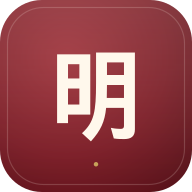
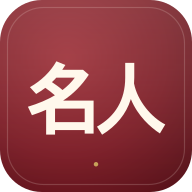
🎴 앱 아이콘·파비콘 明 → 名人 + 캐시 무력화
- icon.svg 글자 明 → 名人, icon-192/512.png 재생성
- tour-detail 카페 원문 마크 明 → 名人
- /assets/* immutable 캐시 대응: 아이콘 참조에 ?v2 (HTML 6 + manifest)
- service worker 캐시 v21 → v22

Changed region(s): [[0.125, 0.25, 0.875, 0.75]]

diff --git a/index.html b/index.html
@@ -7,8 +7,8 @@
 <meta name="description" content="능파의 명인방투어. 인문학·여행·음악·맛이 흐르는 어른의 큐레이션 커뮤니티. 16년차 1,927명 회원." />
 <meta name="theme-color" content="#7a1b25" />
 <link rel="manifest" href="./manifest.webmanifest" />
-<link rel="apple-touch-icon" href="./assets/icon-192.png" />
-<link rel="icon" type="image/svg+xml" href="./assets/icon.svg" />
+<link rel="apple-touch-icon" href="./assets/icon-192.png?v2" />
+<link rel="icon" type="image/svg+xml" href="./assets/icon.svg?v2" />
 <meta property="og:type" content="website" />
 <meta property="og:site_name" content="명인방투어" />
 <meta property="og:title" content="명인방투어 — 길 위의 인문학" />
@@ -27,7 +27,7 @@
   "name": "명인방투어",
   "alternateName": "능파의 명인방투어",
   "url": "https://myungin-bang-tour.netlify.app/",
-  "logo": "https://myungin-bang-tour.netlify.app/assets/icon-512.png",
+  "logo": "https://myungin-bang-tour.netlify.app/assets/icon-512.png?v2",
   "description": "인문학·여행·음악·맛이 흐르는 어른의 큐레이션 커뮤니티. 능파 임상수와 함께 걷는 16년차 문화 여행.",
   "founder": {"@type":"Person","name":"임상수","alternateName":"능파"},
   "foundingDate": "2009",

diff --git a/tour-detail.html b/tour-detail.html
@@ -7,8 +7,8 @@
 <meta name="description" content="여행 상세 — 일정·코스·후기·예약. 능파 동행 문화 여행." />
 <meta name="theme-color" content="#7a1b25" />
 <link rel="manifest" href="./manifest.webmanifest" />
-<link rel="apple-touch-icon" href="./assets/icon-192.png" />
-<link rel="icon" type="image/svg+xml" href="./assets/icon.svg" />
+<link rel="apple-touch-icon" href="./assets/icon-192.png?v2" />
+<link rel="icon" type="image/svg+xml" href="./assets/icon.svg?v2" />
 <meta property="og:type" content="website" />
 <meta property="og:site_name" content="명인방투어" />
 <meta property="og:locale" content="ko_KR" />
@@ -347,7 +347,7 @@
 
   <!-- 카페 원문 -->
   <a class="cafe-link" id="r-cafe" href="#" target="_blank" rel="noopener">
-    <div class="ico">明</div>
+    <div class="ico" style="font-size:11px;letter-spacing:-.5px">名人</div>
     <div style="flex:1">
       <b>다음 카페 원문에서 더 보기</b>
       <span>참가자 사연 · 사진 모음 · 전체 후기</span>

diff --git a/tour.html b/tour.html
@@ -7,8 +7,8 @@
 <meta name="description" content="능파와 함께 걷는 다가오는 여행 일정 + 지난 16년의 여행 100건 박물관." />
 <meta name="theme-color" content="#7a1b25" />
 <link rel="manifest" href="./manifest.webmanifest" />
-<link rel="apple-touch-icon" href="./assets/icon-192.png" />
-<link rel="icon" type="image/svg+xml" href="./assets/icon.svg" />
+<link rel="apple-touch-icon" href="./assets/icon-192.png?v2" />
+<link rel="icon" type="image/svg+xml" href="./assets/icon.svg?v2" />
 <meta property="og:type" content="website" />
 <meta property="og:site_name" content="명인방투어" />
 <meta property="og:title" content="명인방투어 · 여행" />

diff --git a/place.html b/place.html
@@ -7,8 +7,8 @@
 <meta name="description" content="능파가 손꼽은 사람과 장소 — 명인 추천, 명품 맛집, 칼국수로드." />
 <meta name="theme-color" content="#7a1b25" />
 <link rel="manifest" href="./manifest.webmanifest" />
-<link rel="apple-touch-icon" href="./assets/icon-192.png" />
-<link rel="icon" type="image/svg+xml" href="./assets/icon.svg" />
+<link rel="apple-touch-icon" href="./assets/icon-192.png?v2" />
+<link rel="icon" type="image/svg+xml" href="./assets/icon.svg?v2" />
 <meta property="og:type" content="website" />
 <meta property="og:site_name" content="명인방투어" />
 <meta property="og:title" content="명인방투어 · 명인소" />

diff --git a/story.html b/story.html
@@ -7,8 +7,8 @@
 <meta name="description" content="길 위의 인문학, 여행 편지, 음악, 산책 — 능파의 큐레이션." />
 <meta name="theme-color" content="#7a1b25" />
 <link rel="manifest" href="./manifest.webmanifest" />
-<link rel="apple-touch-icon" href="./assets/icon-192.png" />
-<link rel="icon" type="image/svg+xml" href="./assets/icon.svg" />
+<link rel="apple-touch-icon" href="./assets/icon-192.png?v2" />
+<link rel="icon" type="image/svg+xml" href="./assets/icon.svg?v2" />
 <meta property="og:type" content="website" />
 <meta property="og:site_name" content="명인방투어" />
 <meta property="og:title" content="명인방투어 · 여행스케치" />

diff --git a/my.html b/my.html
@@ -7,8 +7,8 @@
 <meta name="description" content="신청한 여행과 다음 카페 로그인." />
 <meta name="theme-color" content="#7a1b25" />
 <link rel="manifest" href="./manifest.webmanifest" />
-<link rel="apple-touch-icon" href="./assets/icon-192.png" />
-<link rel="icon" type="image/svg+xml" href="./assets/icon.svg" />
+<link rel="apple-touch-icon" href="./assets/icon-192.png?v2" />
+<link rel="icon" type="image/svg+xml" href="./assets/icon.svg?v2" />
 <meta property="og:type" content="website" />
 <meta property="og:site_name" content="명인방투어" />
 <meta property="og:url" content="https://myungin-bang-tour.netlify.app/my.html" />

diff --git a/sw.js b/sw.js
@@ -1,7 +1,7 @@
 // 명인방투어 — 서비스 워커
 // 오프라인 캐시 + "홈 화면에 추가" PWA 지원
 
-const CACHE_VERSION = 'mb-tour-v21';
+const CACHE_VERSION = 'mb-tour-v22';
 const CORE_ASSETS = [
   './',
   './index.html',
